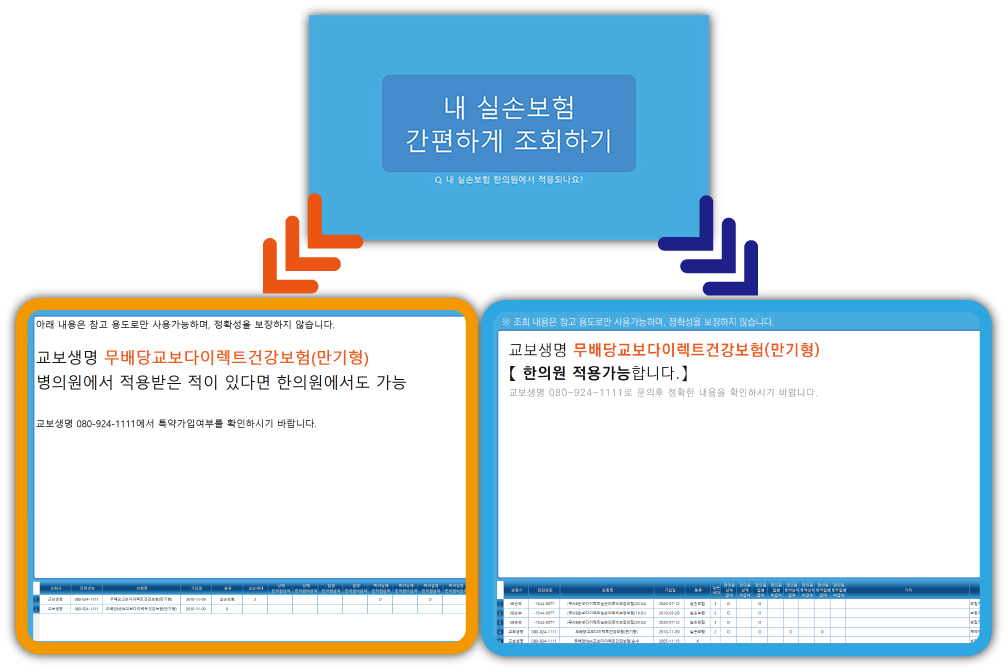
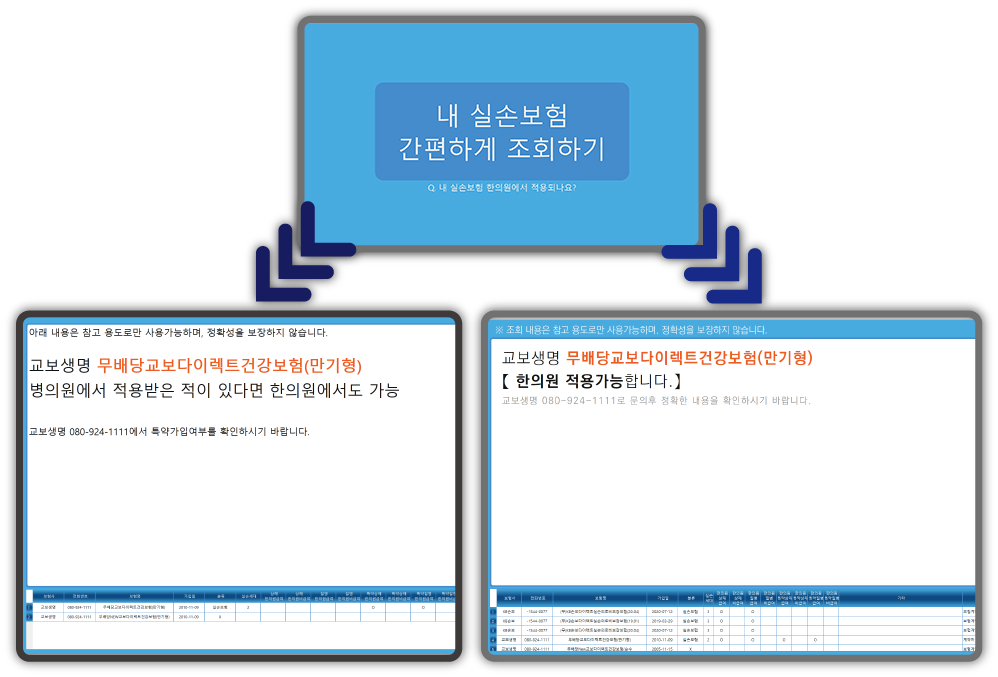
1

Changed region(s): [[0.0, 0.0, 0.994, 1.0], [0.3727, 0.0938, 0.6212, 0.2812]]

diff --git a/about.md b/about.md
@@ -25,7 +25,7 @@ redirect_from:
 ZL Insure가 설치된 키오스크 
 {:.figcaption}
 
-![insure](assets/img/insure1.png){:.lead width="1008" height="672" loading="lazy"}
+![insure](assets/img/insure1.png){:.lead width="998" height="677" loading="lazy"}
 
 >**ZL Insure** 프로그램은 설치가 매우 간단하며 초기 설치 비용이 들지 않습니다. 윈도우 기반 키오스크 혹은 터치스크린이 내장된 윈도우 기기, 노트북 등에서 모두 실행가능하며 유지보수가 쉽습니다.
 
